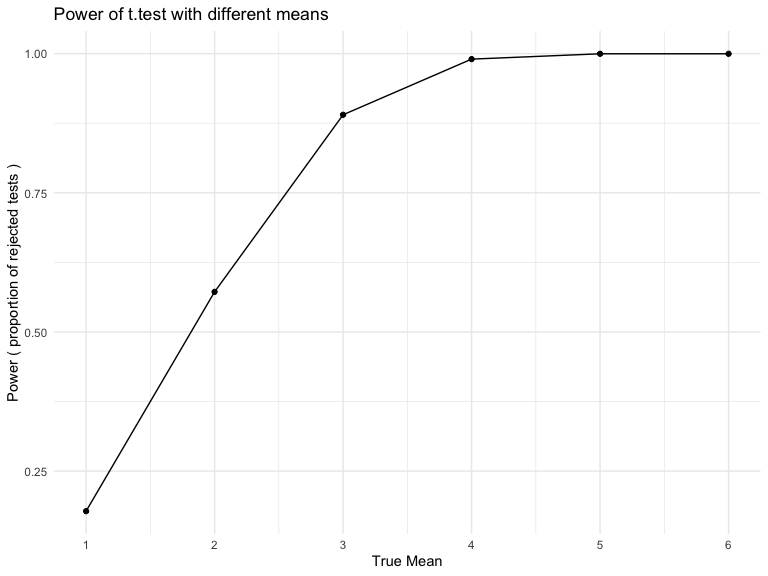
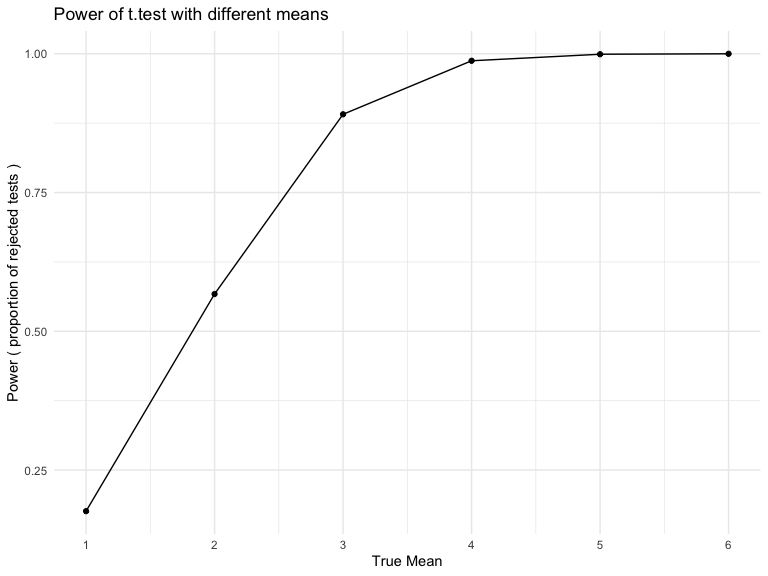
update

diff --git a/p8105_hw5_jj3205.md b/p8105_hw5_jj3205.md
@@ -1,7 +1,7 @@
 Homework 5
 ================
 Jia Ji
-2022-11-16
+2022-11-17
 
 ### Problem 0
 
@@ -382,7 +382,10 @@ results_df %>%
 ```
 
 <img src="p8105_hw5_jj3205_files/figure-gfm/unnamed-chunk-9-1.png" width="90%" />
-\## Problem 3
+Chicago’s unsolved homicides proportion estimate is the the highest and
+it is significantly higher than the rest.
+
+## Problem 3
 
 ``` r
 samples <- rerun(5000,rnorm(n = 30,mean = 0,sd = 5))
@@ -401,7 +404,7 @@ t_test()
     ## # A tibble: 1 × 2
     ##   estimate p.value
     ##      <dbl>   <dbl>
-    ## 1    -1.39   0.139
+    ## 1   -0.495   0.584
 
 Test
 
@@ -415,12 +418,12 @@ head(mean_0)
     ## # A tibble: 6 × 4
     ##    mean iteration estimate p.value
     ##   <dbl>     <int>    <dbl>   <dbl>
-    ## 1     0         1   0.446   0.612 
-    ## 2     0         2   1.76    0.0509
-    ## 3     0         3   0.131   0.896 
-    ## 4     0         4  -1.28    0.130 
-    ## 5     0         5   0.0139  0.987 
-    ## 6     0         6  -0.804   0.478
+    ## 1     0         1   0.756    0.399
+    ## 2     0         2   0.713    0.455
+    ## 3     0         3   0.789    0.359
+    ## 4     0         4  -0.912    0.330
+    ## 5     0         5   0.0307   0.970
+    ## 6     0         6   0.111    0.903
 
 ``` r
 mean_multi <- expand_grid(mean = 1:6, iteration = 1:5000) %>% 
@@ -432,14 +435,16 @@ head(mean_multi)
     ## # A tibble: 6 × 4
     ##    mean iteration estimate p.value
     ##   <int>     <int>    <dbl>   <dbl>
-    ## 1     1         1    0.838  0.345 
-    ## 2     1         2    1.01   0.389 
-    ## 3     1         3    1.99   0.0598
-    ## 4     1         4    2.25   0.0211
-    ## 5     1         5    0.324  0.613 
-    ## 6     1         6    1.52   0.0467
+    ## 1     1         1    1.48  0.0586 
+    ## 2     1         2    0.828 0.394  
+    ## 3     1         3    1.54  0.0628 
+    ## 4     1         4    1.68  0.0465 
+    ## 5     1         5    0.289 0.791  
+    ## 6     1         6    2.27  0.00661
 
-Plots
+While the true mean increases, the proportion of rejection increases.
+The power increases as the effect size increases, and ultimately
+approaches 1. The slope of power decreases as the effect size increases.
 
 ``` r
 mean_multi %>%
@@ -487,3 +492,13 @@ ggplot(full_estimate,aes(x = mean, y = average_estimate)) +
 ```
 
 <img src="p8105_hw5_jj3205_files/figure-gfm/unnamed-chunk-13-1.png" width="90%" />
+
+Therefore, when the effect size is less than 4, the sample average of
+$\hat\mu$ when the null is rejected is different from the true value of
+$\mu$. It is always larger than the true value of $\\mu$, since the
+effect size is relatively small and the power is relatively low.
+
+When the effect size gets larger or equal to 4, the sample average of
+$\hat\mu$ when the null is rejected is approximately equal to the true
+value of $\mu$, since the power is increasing as the effect size
+increases.
